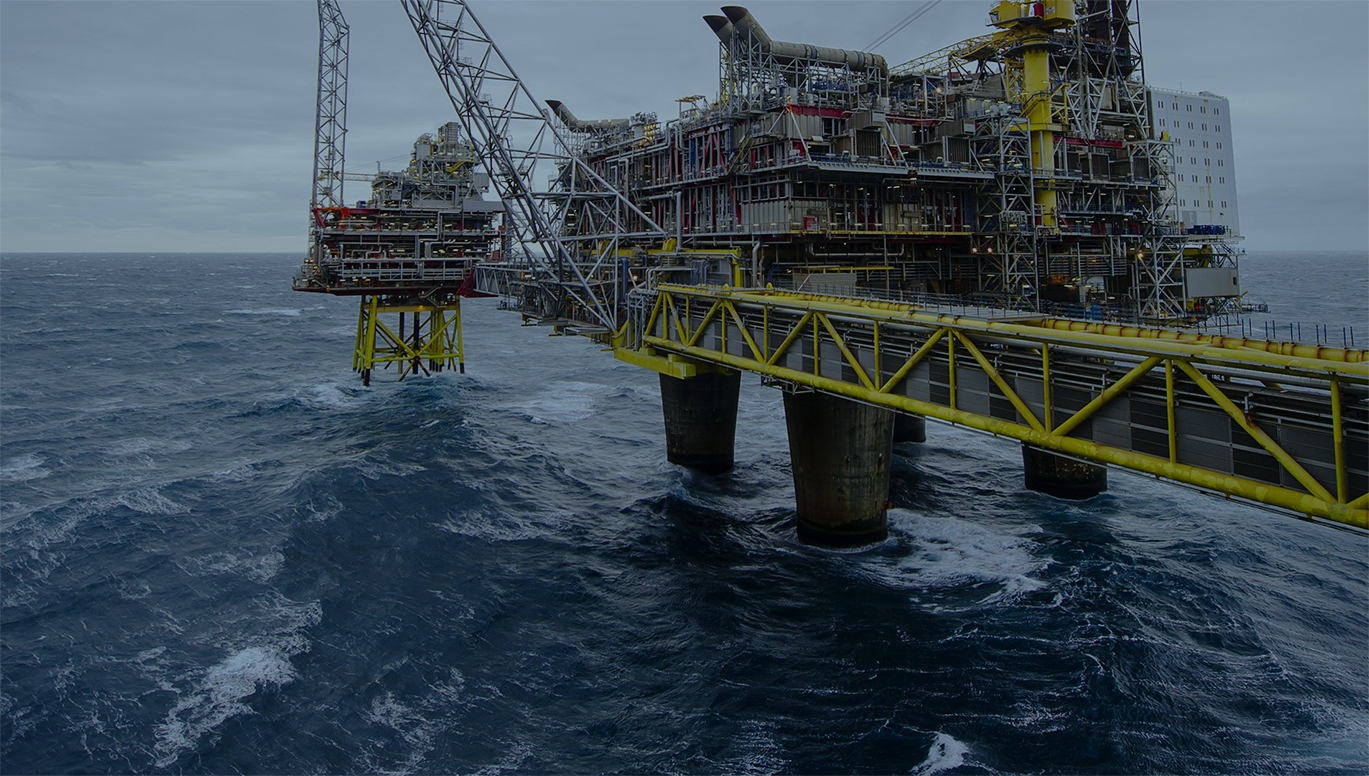
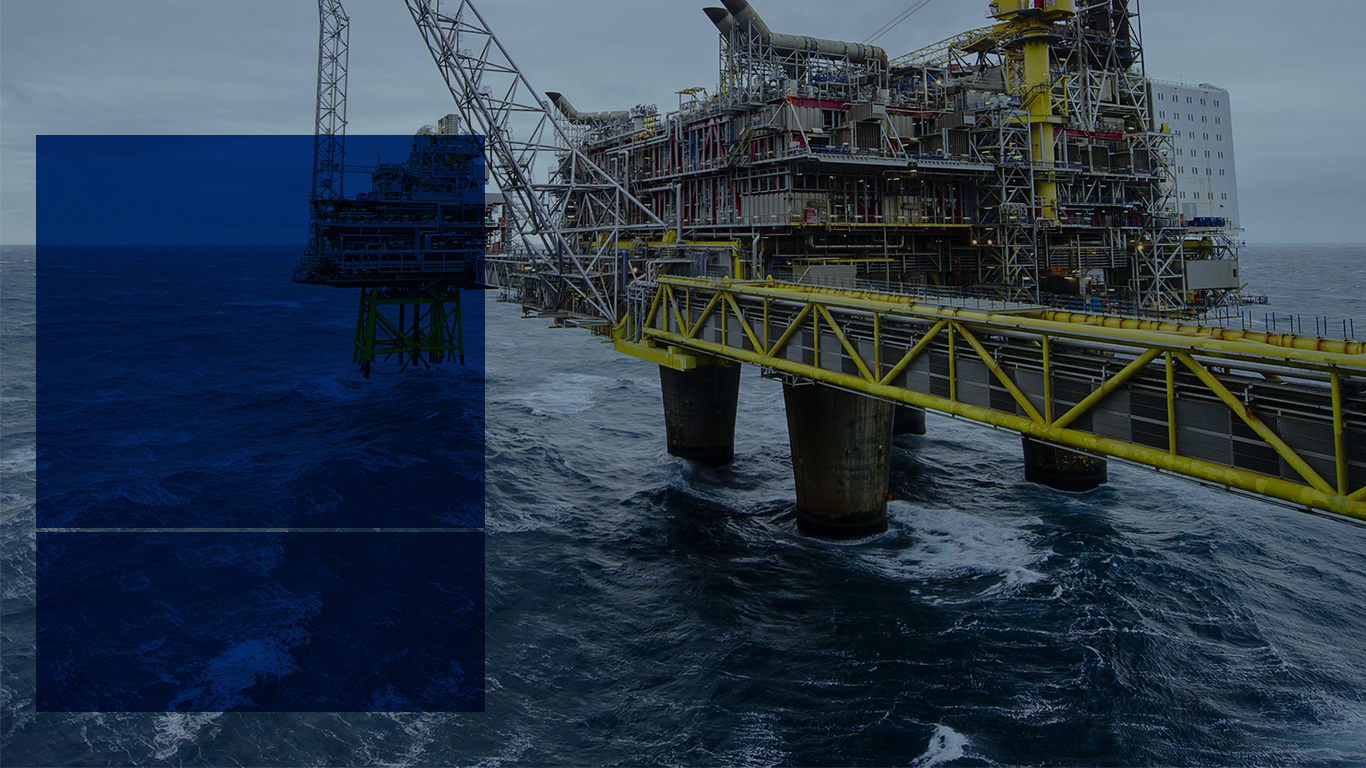
last-one

diff --git a/assets/css/style.css b/assets/css/style.css
@@ -1395,7 +1395,7 @@ margin-top: 64px;
 
 .logo-sider::after{
   content:"";
-  background-image:linear-gradient( #003b80, #023875b0, #032f63ed);
+  /* background-image:linear-gradient( #003b80, #023875b0, #032f63ed); */
   display: block;
   width: 400px;
   height: 355px;
@@ -1415,10 +1415,10 @@ margin-top: 64px;
 .logo-sider-bottom{
   width: 400px;
   height: 125px;
-  background-image:linear-gradient( #003b80, #023875b0, #032f63ed);
+  /* background-image:linear-gradient( #003b80, #023875b0, #032f63ed); */
   position: relative;
   opacity: 0.9;
-  top: -5px;
+  top: 7px;
   z-index: 4;
   padding: 18px 45px;
 }
@@ -1426,7 +1426,7 @@ margin-top: 64px;
 .logo-sider-bottom p{
   margin: 0;
     padding: 0;
-  font-weight: 100;
+  font-weight: 500;
   font-family: "Montserrat";
   color: #fff;
   letter-spacing: 1px;
@@ -1449,8 +1449,8 @@ margin-top: 64px;
 .image-boxs{
   padding: 39px 8px;
   left: 38px;
-  width: 292px;
-  top: -16px;
+  width: 269px;
+  top: 11px;
   position: absolute;
   z-index: 7;
 }
@@ -1467,9 +1467,9 @@ margin-top: 64px;
   height: 306px;
   background-color: #ffffff;
   margin: 0px 38px;
-  height: 282px;
+  height: 259px;
   z-index: 7;
-  top: 44px;
+  top: 62px;
 }
 .slide-text span{
   font-size: 14px;

diff --git a/index.html b/index.html
@@ -76,7 +76,7 @@
         <ol id="hero-carousel-indicators" class="carousel-indicators"></ol>
         <div class="carousel-inner" role="listbox">
           <div class="carousel-item active">
-            <img src="assets/images/GettyImages.png" alt="" style="width:100%;height: 100%;">
+            <img src="assets/images/BACK1.png" alt="" style="width:100%;height: 100%;">
             <div class="carousel-container">
               <div class="container-fluid">
                 <div class="logo-sider">
@@ -188,7 +188,7 @@
             </div>
           </div>
           <div class="carousel-item">
-            <img src="assets/images/GettyImages.png" alt="" style="width:100%;height: 100%;">
+            <img src="assets/images/BACK1.png" alt="" style="width:100%;height: 100%;">
             <div class="carousel-container">
               <div class="container-fluid">
                 <div class="logo-sider">
